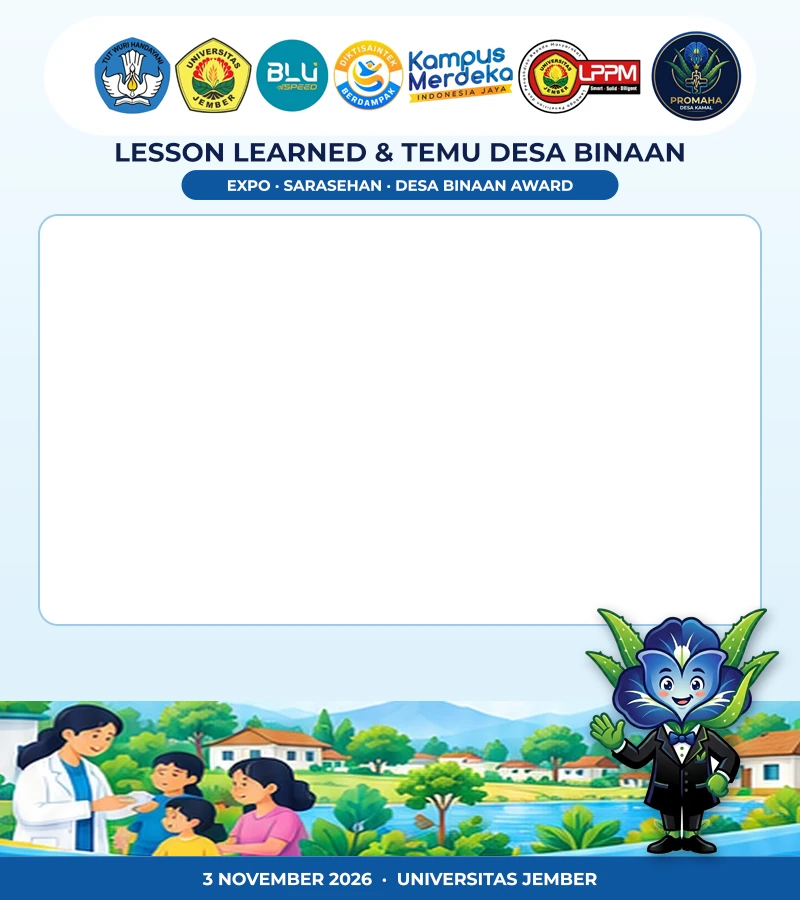
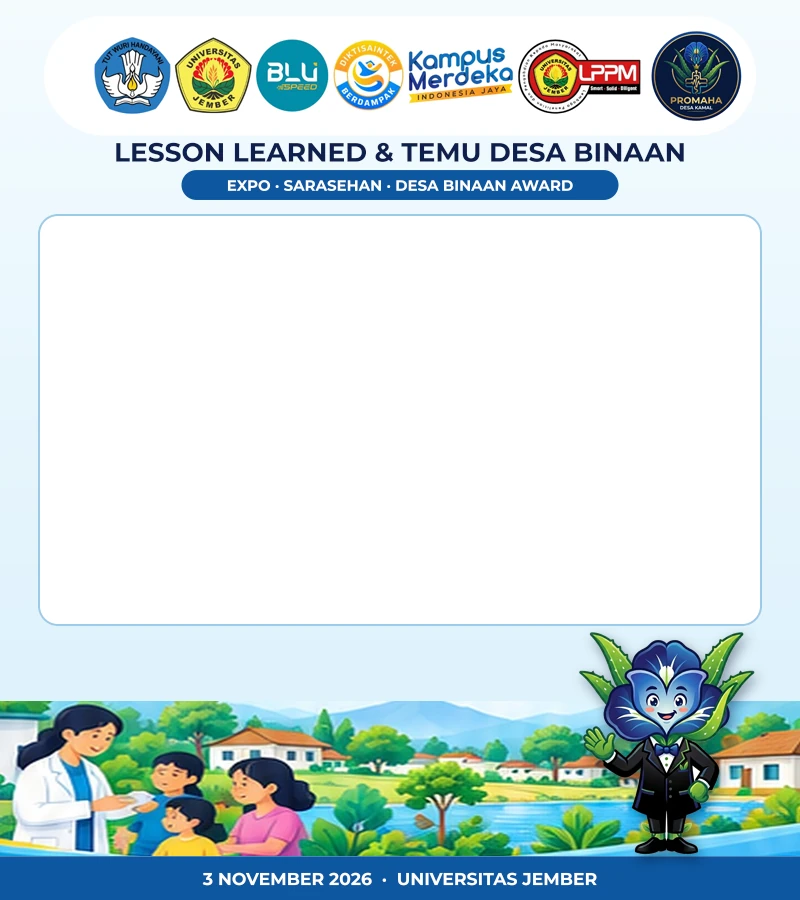
fix: maskot tidak lagi menutupi foto
Hapus fitur maskot ikut foto dari kamera dan susun ulang maskot pada
frame agar berada di luar slot foto. Generator frame kini gagal bila
maskot menimpa slot. Versi cache service worker dinaikkan ke v2.

Changed region(s): [[0.7188, 0.6533, 1.0, 0.9644]]

diff --git a/src/js/segmenter.js b/src/js/segmenter.js
@@ -39,10 +39,6 @@ export class BackgroundSegmenter {
 
     this.isMirrored = true;
 
-    // Maskot Promahadesa yang ikut berdiri di foto: 'off' | 'left' | 'right'
-    this.mascotSide = 'off';
-    this.mascotImages = {};
-
     this.selfieSegmentation = null;
     this.isModelLoaded = false;
     this.isProcessing = false;
@@ -145,29 +141,6 @@ export class BackgroundSegmenter {
     }
   }
 
-  setMascot(side) {
-    this.mascotSide = side;
-    if (side === 'off' || this.mascotImages[side]) return;
-    const img = new Image();
-    // Di sisi kanan tangan yang melambai menghadap ke tengah; sisi kiri memakai versi cermin
-    img.src = side === 'left' ? './brand/maskot-flip.webp' : './brand/maskot.webp';
-    this.mascotImages[side] = img;
-  }
-
-  // Selalu digambar tanpa efek cermin. Posisi di 0.27/0.73 lebar supaya tetap masuk slot foto yang dipotong tengah.
-  drawMascot() {
-    const img = this.mascotImages[this.mascotSide];
-    if (this.mascotSide === 'off' || !img?.complete || !img.naturalWidth) return;
-    const { width, height } = this.outputCanvas;
-    const h = height * 0.5;
-    const w = h * (img.naturalWidth / img.naturalHeight);
-    const cx = width * (this.mascotSide === 'left' ? 0.27 : 0.73);
-    this.ctx.save();
-    this.ctx.setTransform(1, 0, 0, 1, 0, 0);
-    this.ctx.drawImage(img, cx - w / 2, height - h + height * 0.01, w, h);
-    this.ctx.restore();
-  }
-
   setMirrored(mirrored) {
     this.isMirrored = mirrored;
   }
@@ -236,7 +209,6 @@ export class BackgroundSegmenter {
 
     this.ctx.drawImage(this.videoElement, 0, 0, width, height);
     this.ctx.restore();
-    this.drawMascot();
   }
 
   /**
@@ -312,7 +284,6 @@ export class BackgroundSegmenter {
     if (this.mode === 'none') {
       this.ctx.drawImage(results.image, 0, 0, width, height);
       this.ctx.restore();
-      this.drawMascot();
       this.updateFps();
       return;
     }
@@ -333,8 +304,6 @@ export class BackgroundSegmenter {
     // 4. Draw virtual background behind the person
     this.ctx.globalCompositeOperation = 'destination-over';
 
-    // Maskot di belakang orang tetapi di depan background
-    this.drawMascot();
 
     if (this.mode === 'blur-light' || this.mode === 'blur-heavy') {
       const blurPx = this.mode === 'blur-heavy' ? 20 : 8;

diff --git a/src/js/main.js b/src/js/main.js
@@ -43,7 +43,6 @@ const stripCanvas = document.getElementById('stripCanvas');
 const stripCanvasWrapper = document.getElementById('stripCanvasWrapper');
 const swatchesGrid = document.getElementById('swatchesGrid');
 const framesGrid = document.getElementById('framesGrid');
-const mascotButtons = document.querySelectorAll('.mascot-btn');
 const btnStickerUndo = document.getElementById('btnStickerUndo');
 const filtersGrid = document.getElementById('filtersGrid');
 const stickersTray = document.getElementById('stickersTray');
@@ -100,8 +99,7 @@ async function initApp() {
   buildStickerTray();
   setupEventListeners();
 
-  // Maskot ikut berdiri di kamera sejak awal, frame dimuat lebih dulu agar studio langsung siap
-  segmenter.setMascot('right');
+  // Frame dimuat lebih dulu agar studio langsung siap
   stripRenderer.preloadFrames(state.currentMode);
   stripRenderer.onAssetReady = () => {
     if (studioView.classList.contains('active') && !state.liveAnimId) updateStudioPreview(false);
@@ -268,15 +266,6 @@ function setupEventListeners() {
       timerButtons.forEach((b) => b.classList.remove('active'));
       btn.classList.add('active');
       state.timerSeconds = parseInt(btn.dataset.timer, 10);
-    });
-  });
-
-  // 9b. Maskot ikut foto
-  mascotButtons.forEach((btn) => {
-    btn.addEventListener('click', () => {
-      mascotButtons.forEach((b) => b.classList.remove('active'));
-      btn.classList.add('active');
-      segmenter.setMascot(btn.dataset.side);
     });
   });
 

diff --git a/index.html b/index.html
@@ -97,7 +97,7 @@
         <!-- Sapaan Maskot -->
         <div class="mascot-greeting">
           <img src="./brand/maskot.webp" alt="Maskot Promahadesa Kamal" />
-          <p class="mascot-bubble">Halo! Aku maskot Promahadesa Kamal. Yuk foto bareng. Pantau bersama, desa sehat!</p>
+          <p class="mascot-bubble">Halo! Aku maskot Promahadesa Kamal. Pantau bersama, desa sehat!</p>
         </div>
 
         <!-- Background Options (Meet Style) -->
@@ -239,17 +239,6 @@
               <button class="timer-btn" data-timer="10">10s</button>
             </div>
           </div>
-
-          <!-- Foto Bareng Maskot -->
-          <div class="mascot-selector">
-            <span class="mascot-label">Maskot:</span>
-            <div class="mascot-options">
-              <button class="mascot-btn" data-side="off">Tanpa</button>
-              <button class="mascot-btn" data-side="left">Kiri</button>
-              <button class="mascot-btn active" data-side="right">Kanan</button>
-            </div>
-          </div>
-          <p class="mascot-label-hint">Maskot ikut berdiri di foto, di belakangmu kalau background virtual aktif.</p>
 
           <!-- Live Photo Toggle Switch -->
           <div class="live-photo-card" id="livePhotoToggleCard">

diff --git a/src/style.css b/src/style.css
@@ -752,8 +752,7 @@ body {
 }
 
 /* Timer pills */
-.timer-selector,
-.mascot-selector {
+.timer-selector {
   display: flex;
   align-items: center;
   justify-content: space-between;
@@ -763,22 +762,19 @@ body {
   border-radius: var(--radius-full);
 }
 
-.timer-label,
-.mascot-label {
+.timer-label {
   font-size: 0.78rem;
   font-weight: 600;
   color: var(--text-secondary);
   padding-left: 0.65rem;
 }
 
-.timer-options,
-.mascot-options {
+.timer-options {
   display: flex;
   gap: 4px;
 }
 
-.timer-btn,
-.mascot-btn {
+.timer-btn {
   background: transparent;
   border: none;
   color: var(--text-secondary);
@@ -791,8 +787,7 @@ body {
   transition: all 0.2s ease;
 }
 
-.timer-btn.active,
-.mascot-btn.active {
+.timer-btn.active {
   background: var(--accent-gradient);
   color: #0E1F4D;
   box-shadow: 0 2px 8px rgba(168, 207, 69, 0.4);
@@ -1473,16 +1468,6 @@ body {
   border-style: solid;
   border-width: 6px 8px 6px 0;
   border-color: transparent #FFF8E7 transparent transparent;
-}
-
-.mascot-selector {
-  margin-top: 0.75rem;
-}
-
-.mascot-label-hint {
-  font-size: 0.72rem;
-  color: var(--text-muted);
-  margin-top: 0.4rem;
 }
 
 .studio-mascot {

diff --git a/public/sw.js b/public/sw.js
@@ -1,5 +1,5 @@
 // Promaha Booth Progressive Web App Service Worker
-const CACHE_NAME = 'promaha-booth-v1';
+const CACHE_NAME = 'promaha-booth-v2';
 
 const STATIC_PRECACHE = [
   './',
@@ -52,7 +52,6 @@ const STATIC_PRECACHE = [
   './stickers/lidah-buaya.webp',
   './brand/logo.webp',
   './brand/maskot.webp',
-  './brand/maskot-flip.webp',
   './backgrounds/promaha-backdrop.jpg',
   './backgrounds/promaha-desa.jpg',
   './backgrounds/promaha-dinding.jpg'

diff --git a/tools/promaha/build_frames.py b/tools/promaha/build_frames.py
@@ -39,6 +39,7 @@ class Doc:
         self.w, self.h = w, h
         self.under, self.over = [], []
         self.cur = self.under
+        self.mascots = []
 
     def top(self):
         self.cur = self.over
@@ -69,6 +70,9 @@ class Doc:
             path = f"{A}/{path}.png"
         iw, ih = size_of(path)
         scale = 100 * (w / iw if w else h / ih)
+        if "maskot" in os.path.basename(path):
+            bw, bh = iw * scale / 100, ih * scale / 100
+            self.mascots.append((cx - bw / 2, cy - bh / 2, cx + bw / 2, cy + bh / 2))
         self.cmd("file.placeEmbedded", path=path, scale=round(scale, 3), center=[cx, cy], fit=False)
         self.cmd("layer.setProps", name=name or os.path.basename(path).split(".")[0])
         if rot:
@@ -189,11 +193,11 @@ def f_pantau(layout):
     for s in S:
         d.rect(s["x"] - 3, s["y"] - 3, s["w"] + 6, s["h"] + 6, None, r=r + 3, stroke=GOLD, sw=3, name="bingkai emas")
     fy = H - bottom
-    mh = bottom + 30 * u
-    d.bottom_img("maskot_stand_dc", W - side - mh * 0.33, H - 46 * u + 8, h=mh - 40 * u, shadow=45, name="maskot")
+    mh = bottom - 54 * u
+    d.bottom_img("maskot_stand_dc", W - side - mh * 0.4, H - 46 * u + 8, h=mh, shadow=45, name="maskot")
     d.rect(0, H - 44 * u, W, 44 * u, LIME, name="pita lime")
     d.text(W / 2, H - 15 * u, "Pantau bersama, desa sehat!", 19 * u, NAVY, 700, "center", name="slogan")
-    title_w = W - side * 2 - mh * 0.72
+    title_w = W - side * 2 - mh * 0.82
     return d, S, r, dict(
         title=dict(x=side, y=fy + 58 * u, size=26 * u, color=WHITE, align="left", maxWidth=title_w, lines=2),
         date=dict(x=side, y=fy + 132 * u, size=15 * u, color=LIME, align="left"),
@@ -265,7 +269,8 @@ def f_toga(layout):
         d.img("tape", s["x"] + s["w"] / 2 + (-16 if i % 2 else 16) * u, s["y"] - 4 * u, w=92 * u, rot=-4 if i % 2 else 3, opacity=0.92, name="selotip")
     d.bottom_img("fg_vine", 16 * u, top + 200 * u, h=270 * u, shadow=25, name="sulur telang")
     d.bottom_img("fg_vine_flip", W - 18 * u, H - bottom * 0.64, h=280 * u, shadow=25, name="sulur telang")
-    d.img("maskot_head", W - 92 * u, top * 0.52, w=170 * u, shadow=45, name="kepala maskot")
+    head_h = top * 0.88
+    d.img("maskot_head", W - side - head_h * 0.62, top * 0.47, h=head_h, shadow=45, name="kepala maskot")
     shelf = H - 44 * u
     d.rect(-6, shelf, W + 12, 30 * u, "#B56A35", r=5 * u, stroke=NAVY, sw=4 * u, name="papan kayu")
     d.rect(-6, shelf + 30 * u, W + 12, 18 * u, "#0B3A22", name="bayangan papan")
@@ -345,7 +350,7 @@ def f_film(layout):
         n = i + 1
         d.text(s["x"] + 6 * u, s["y"] + s["h"] - 8 * u, f"▶ {n}A", 13 * u, AMBER, 700, font=mono, name=f"nomor {n}")
     fy = H - bottom
-    mh = bottom + 36 * u
+    mh = bottom - 16 * u
     d.bottom_img("maskot_kamera_dc", W - pad - mh * 0.34 - 6 * u, H - 8 * u, h=mh, shadow=55, name="maskot kamera")
     return d, S, r, dict(
         title=dict(x=lx, y=fy + 62 * u, size=25 * u, color=AMBER, align="left", maxWidth=W - pad * 2 - mh * 0.72, lines=3, font="mono"),
@@ -386,8 +391,8 @@ def f_expo(layout):
     d.cover(f"{A}/expo_scene.jpg", 0, round(H - band - sh), W, round(sh), name="pemandangan desa")
     d.rect(0, H - band, W, band, BLUE, name="pita biru")
     d.text(W / 2, H - band / 2 + 6 * u, "3 NOVEMBER 2026  ·  UNIVERSITAS JEMBER", 15 * u, WHITE, 700, "center", name="tanggal acara")
-    mh = bottom * 0.88
-    d.bottom_img("maskot_stand", W - side - mh * 0.3, H - band - 2, h=mh, shadow=40, name="maskot")
+    mh = bottom - band - 12 * u
+    d.bottom_img("maskot_stand", W - side - mh * 0.4, H - band - 2, h=mh, shadow=40, name="maskot")
     fy = H - bottom
     return d, S, r, dict(
         title=dict(x=side, y=fy + 48 * u, size=23 * u, color=NAVY, align="left", maxWidth=W - side * 2 - mh * 0.68, lines=2),
@@ -421,6 +426,11 @@ def run(steps, new, out):
 def build(fid, name, fn, bg, layout):
     d, S, r, text, extras = fn(layout)
     W, H = d.w, d.h
+    # Maskot tidak boleh menimpa slot foto
+    for x0, y0, x1, y1 in d.mascots:
+        for s in S:
+            if x0 < s["x"] + s["w"] and x1 > s["x"] and y0 < s["y"] + s["h"] and y1 > s["y"]:
+                raise RuntimeError(f"{fid}-{layout}: maskot menimpa foto")
     d.cur = d.under
     for s, x, y, size, col in extras:
         d.text(x, y, s, size, col, 600)

diff --git a/tools/promaha/build_brand.py b/tools/promaha/build_brand.py
@@ -97,7 +97,6 @@ json.dump(manifest, open(f"{ROOT}/src/js/promahaStickers.json", "w"), indent=1)
 # --- UI ------------------------------------------------------------------------------------------
 fit(Image.open(f"{A}/logo.png"), 160).save(f"{PUB}/brand/logo.webp", "WEBP", quality=92, alpha_quality=100, method=6)
 fit(Image.open(f"{A}/maskot_stand.png"), 760).save(f"{PUB}/brand/maskot.webp", "WEBP", quality=92, alpha_quality=100, method=6)
-fit(Image.open(f"{A}/maskot_stand_flip.png"), 760).save(f"{PUB}/brand/maskot-flip.webp", "WEBP", quality=92, alpha_quality=100, method=6)
 
 # --- Virtual background ---------------------------------------------------------------------------
 BW, BH = 1920, 1080

diff --git a/tools/promaha/build_assets.py b/tools/promaha/build_assets.py
@@ -67,7 +67,6 @@ stand = cutout(f"{PC}/maskot_src/stand.jpg")
 head = cutout(f"{PC}/maskot_src/head.jpg")
 bike = cutout(f"{V}/1793490630326.png", holes_below=0.5)
 stand.save(f"{OUT}/maskot_stand.png")
-stand.transpose(Image.FLIP_LEFT_RIGHT).save(f"{OUT}/maskot_stand_flip.png")
 head.save(f"{OUT}/maskot_head.png")
 bike.save(f"{OUT}/maskot_bike.png")
 bike.transpose(Image.FLIP_LEFT_RIGHT).save(f"{OUT}/maskot_bike_flip.png")
